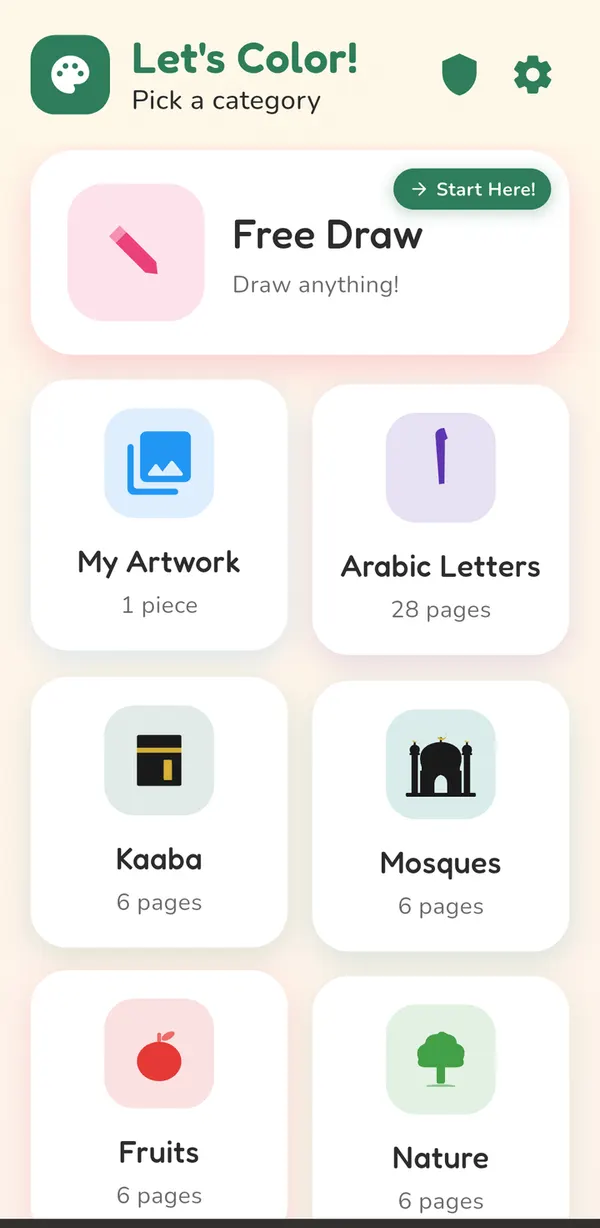
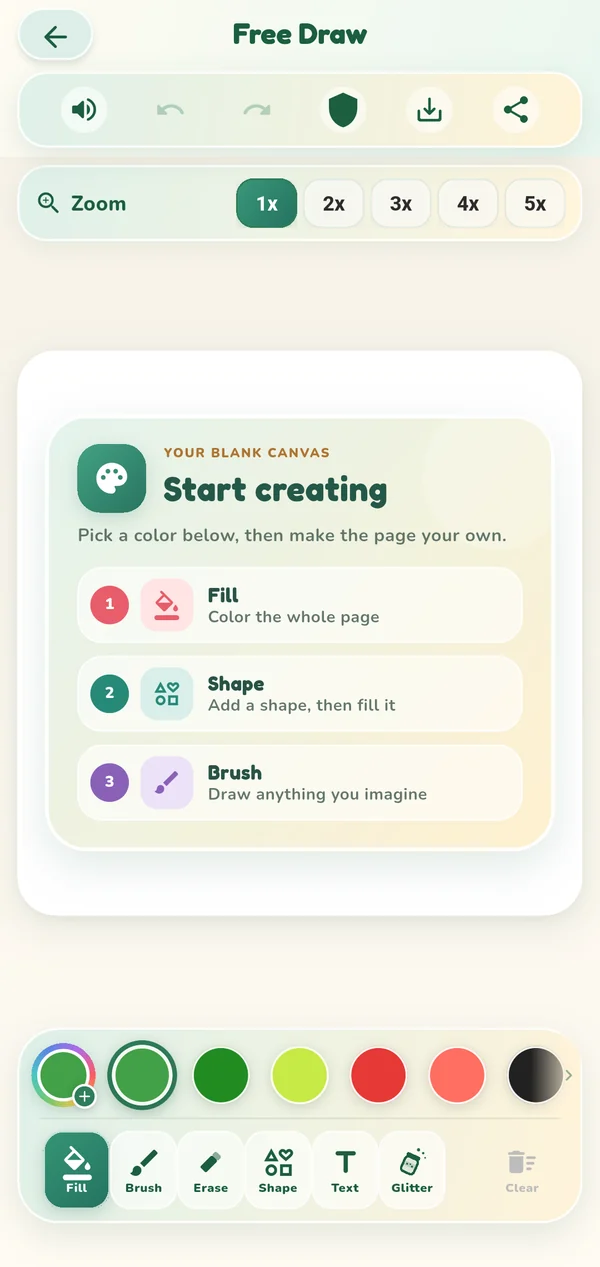
Replace July app screenshots with the current app screens (#8)
* Replace the July app screenshots with the current app screens

The site still showed the pre-1.1 home and coloring screens. New images are
price-free captures of the current design (build 20 raw captures, status bar
cropped), same files, sizes and layout. Alt text and slide labels updated to
match; the slide label moves under the phone so it no longer covers the app's
tool bar. Share image for /apps/ regenerated.

* Use Cody's fresh 6 Nov captures of the current app; shot-2 is the Mosques collection

The Kaaba grid shows a page with crescents on minaret tops that Captain ruled
must change, so the second screenshot is the Mosques collection. Share image
rebuilt from the new screens.

---------

diff --git a/index.html b/index.html
@@ -90,16 +90,16 @@
               <div class="phone-notch"></div>
               <div class="phone-screen">
                 <div class="slides">
-                  <img class="slide is-active" src="/images/screenshots/hero-1.webp" alt="Mosque coloring page, colored in" width="594" height="1254" fetchpriority="high" decoding="async">
-                  <img class="slide" src="/images/screenshots/hero-2.webp" alt="Grand mosque with palm trees, colored in" width="594" height="1254" loading="lazy">
-                  <img class="slide" src="/images/screenshots/hero-3.webp" alt="Lakeside cabin nature scene, colored in" width="594" height="1254" loading="lazy">
-                  <img class="slide" src="/images/screenshots/hero-4.webp" alt="Fruit basket coloring page, colored in" width="594" height="1254" loading="lazy">
-                  <img class="slide" src="/images/screenshots/hero-5.webp" alt="Sunflower coloring page, colored in" width="594" height="1254" loading="lazy">
+                  <img class="slide is-active" src="/images/screenshots/hero-1.webp" alt="Free Draw with colored and glitter brush strokes" width="594" height="1254" fetchpriority="high" decoding="async">
+                  <img class="slide" src="/images/screenshots/hero-2.webp" alt="The Artist Pack screen with five collections to color" width="594" height="1254" loading="lazy">
+                  <img class="slide" src="/images/screenshots/hero-3.webp" alt="The Arabic Letters collection with Baa and Alif pages" width="594" height="1254" loading="lazy">
+                  <img class="slide" src="/images/screenshots/hero-4.webp" alt="Puzzle Studio with six picture puzzle worlds" width="594" height="1254" loading="lazy">
+                  <img class="slide" src="/images/screenshots/hero-5.webp" alt="A Kaaba jigsaw puzzle being built" width="594" height="1254" loading="lazy">
                 </div>
-                <p class="slide-label" id="hero-label">Beautiful Islamic scenes to color</p>
               </div>
             </div>
             <div class="hero-caption">
+              <p class="slide-label" id="hero-label">Color with glitter and a brush</p>
               <button class="motion-toggle" id="hero-pause" type="button" hidden>Pause slideshow</button>
               <div class="slide-dots" id="hero-dots" role="group" aria-label="Choose a slide">
                 <button class="dot is-active" type="button" aria-label="Show slide 1" aria-current="true"></button>
@@ -153,13 +153,13 @@
 
           <div class="shots">
             <div class="shot raised">
-              <img src="/images/screenshots/shot-1.webp" alt="Category picker screen with Free Draw, Kaaba, Mosques, and more" width="300" height="633">
+              <img src="/images/screenshots/shot-1.webp" alt="Free Draw start screen with tips for fill, shape and brush" width="300" height="633">
             </div>
             <div class="shot center">
-              <img src="/images/screenshots/shot-2.webp" alt="Kaaba coloring page, colored in" width="300" height="633">
+              <img src="/images/screenshots/shot-2.webp" alt="The Mosques collection with pages to choose from" width="300" height="633">
             </div>
             <div class="shot raised">
-              <img src="/images/screenshots/shot-3.webp" alt="A fruit basket coloring page, fully colored in" width="300" height="633">
+              <img src="/images/screenshots/shot-3.webp" alt="The Arabic Numbers collection with pages to choose from" width="300" height="633">
             </div>
           </div>
         </div>

diff --git a/apps/index.html b/apps/index.html
@@ -83,10 +83,10 @@
 
         <div class="app-hero-media">
           <div class="shot raised">
-            <img src="/images/screenshots/shot-1.webp" alt="Islamic Coloring for Kids category picker screen" width="300" height="633">
+            <img src="/images/screenshots/shot-1.webp" alt="Free Draw start screen with tips for fill, shape and brush" width="300" height="633">
           </div>
           <div class="shot center">
-            <img src="/images/screenshots/shot-2.webp" alt="Kaaba coloring page colored in the app" width="300" height="633">
+            <img src="/images/screenshots/shot-2.webp" alt="The Mosques collection with pages to choose from" width="300" height="633">
           </div>
         </div>
       </div>
@@ -146,13 +146,13 @@
         </div>
         <div class="shots app-gallery">
           <div class="shot">
-            <img src="/images/screenshots/shot-1.webp" alt="Category picker with Free Draw, Kaaba, Mosques, and more" width="300" height="633">
+            <img src="/images/screenshots/shot-1.webp" alt="Free Draw start screen with tips for fill, shape and brush" width="300" height="633">
           </div>
           <div class="shot">
-            <img src="/images/screenshots/shot-2.webp" alt="Kaaba coloring page colored in" width="300" height="633">
+            <img src="/images/screenshots/shot-2.webp" alt="The Mosques collection with pages to choose from" width="300" height="633">
           </div>
           <div class="shot">
-            <img src="/images/screenshots/shot-3.webp" alt="Fruit basket coloring page colored in" width="300" height="633">
+            <img src="/images/screenshots/shot-3.webp" alt="The Arabic Numbers collection with pages to choose from" width="300" height="633">
           </div>
         </div>
       </div>

diff --git a/js/home.js b/js/home.js
@@ -13,11 +13,11 @@
     if (slides.length < 2) return;
 
     var LABELS = [
-      'Beautiful Islamic scenes to color',
-      'Mosques, Kaaba, and more',
-      'Calm nature and everyday scenes',
-      'Dozens of pages to explore',
-      'Simple pages for little hands'
+      'Color with glitter and a brush',
+      'Five collections to color',
+      'All 28 Arabic letters, free',
+      'Picture puzzles in six worlds',
+      'Jigsaw or sliding tiles'
     ];
     var AUTO = 4000, IDLE = 7000;
     var i = 0, timer = null, idle = null;

diff --git a/css/site.css b/css/site.css
@@ -1653,3 +1653,13 @@ section[id] { scroll-margin-top: 86px; }
 .lede { margin: 0 0 8px; font-size: 19px; line-height: 1.6; color: var(--body); }
 .legal .lede { color: var(--body); }
 label.field { cursor: text; }
+
+/* hero label sits under the phone, not over the app's tool bar */
+.hero-caption .slide-label {
+  position: static;
+  transform: none;
+  max-width: 100%;
+  box-shadow: none;
+}
+
+.hero-inner { padding-bottom: clamp(112px, 12vw, 136px); }
